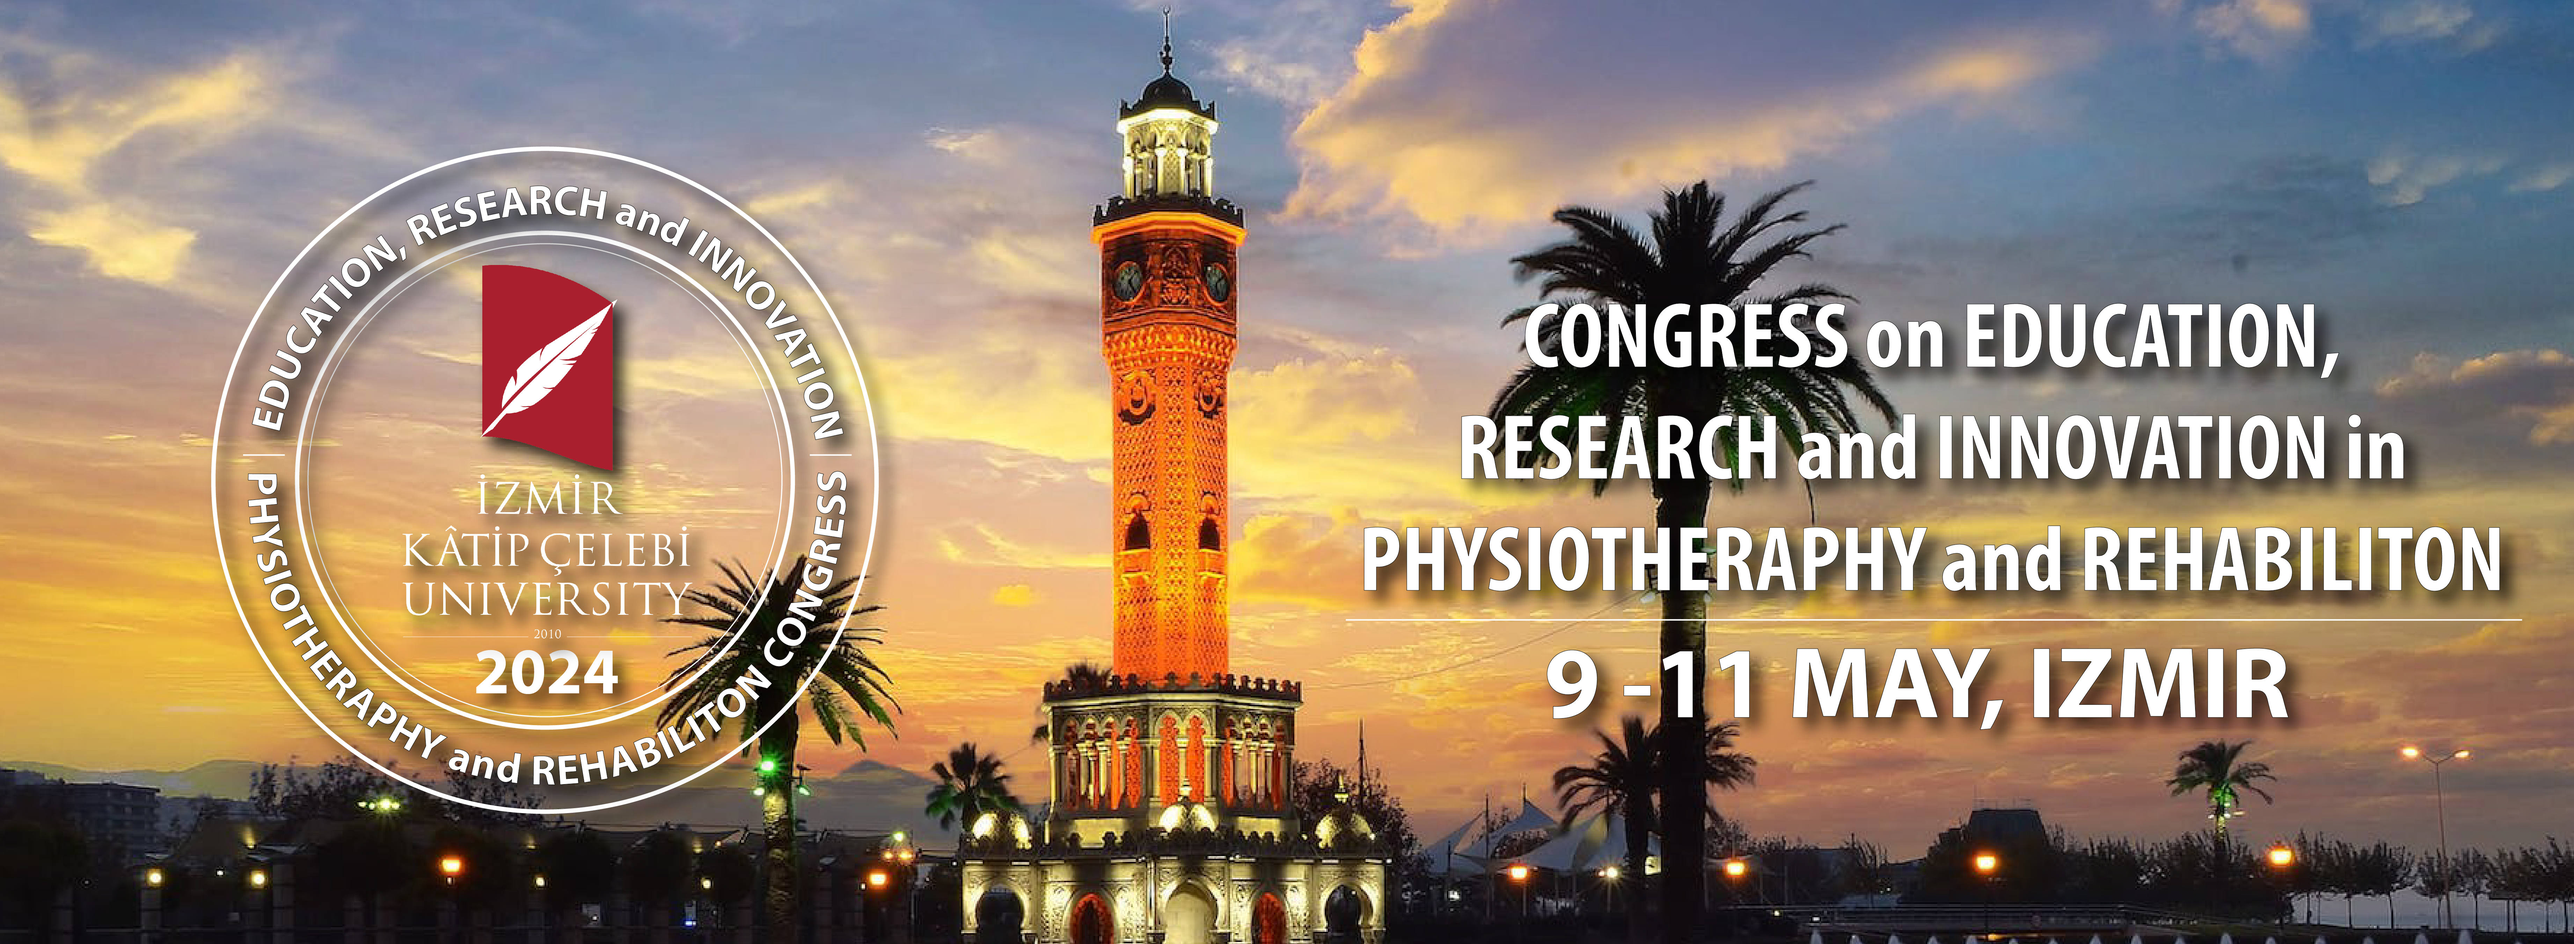
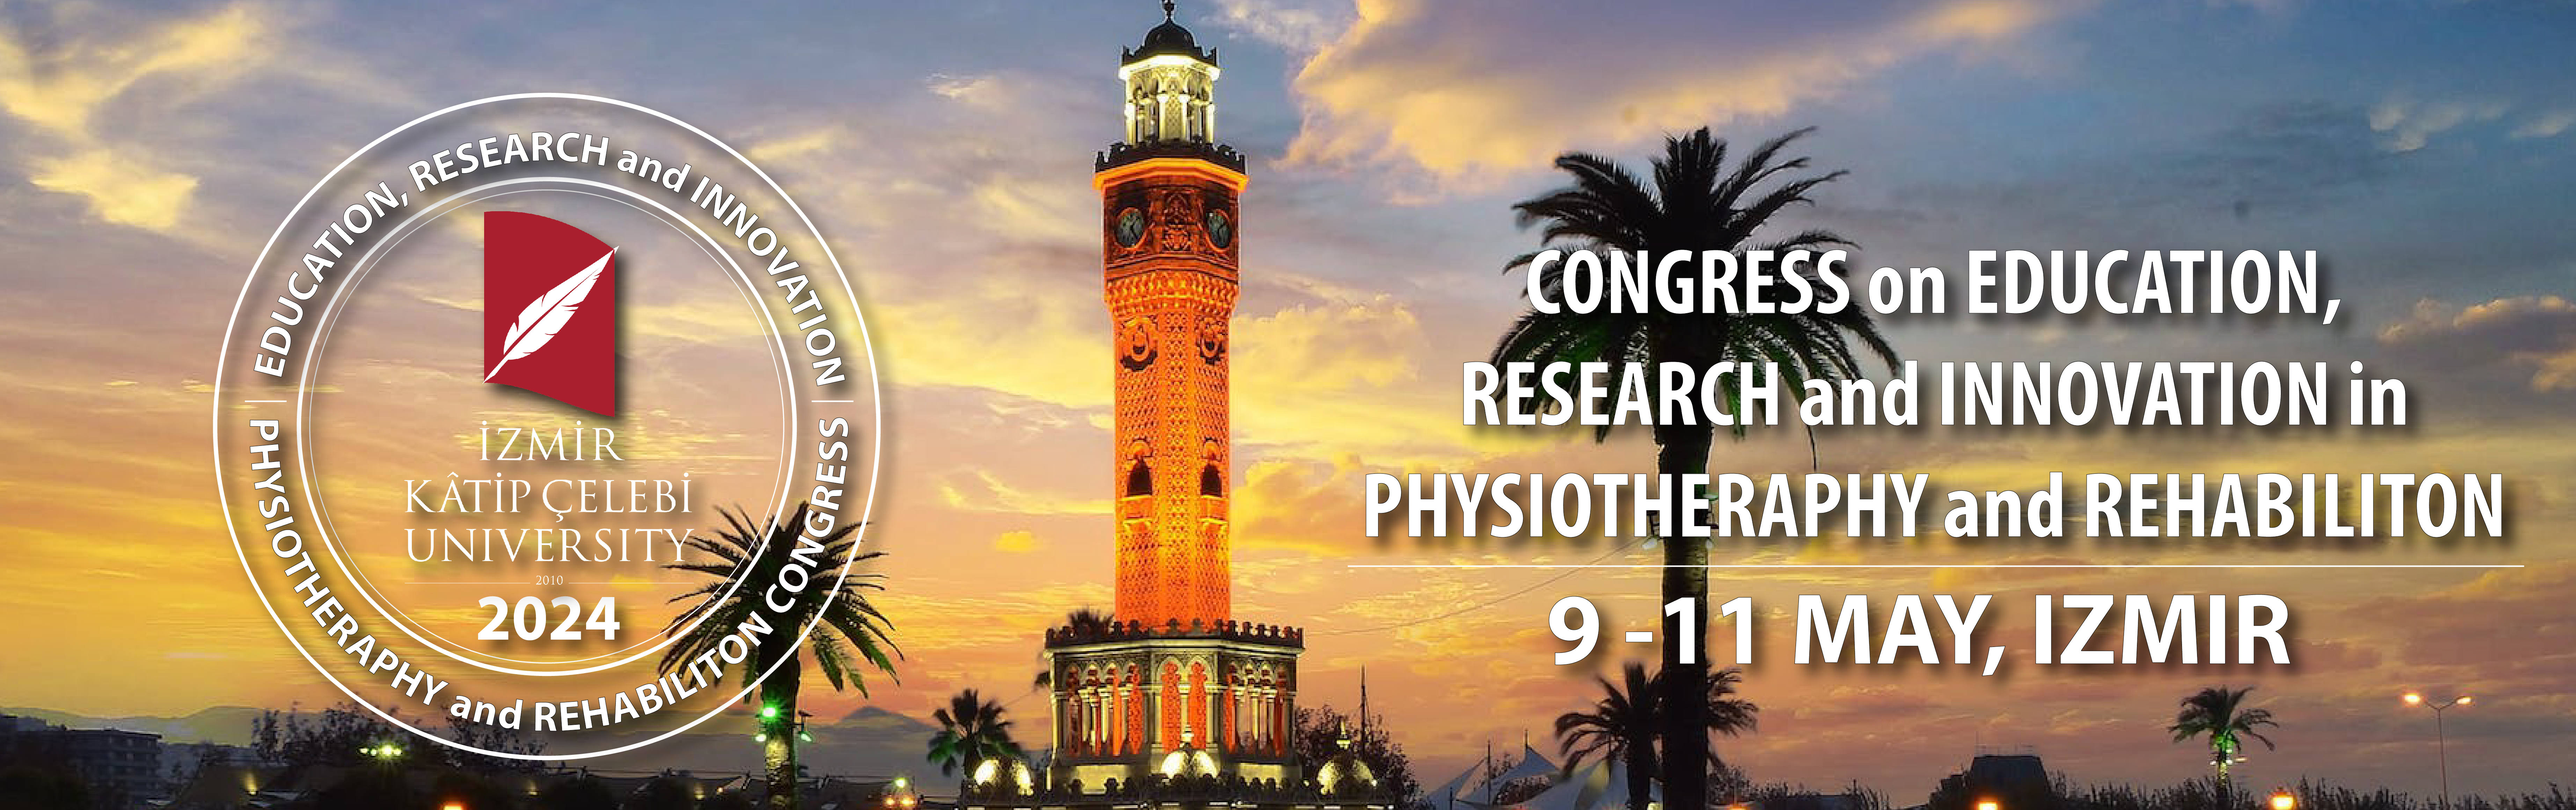
16

diff --git a/bildiri-gonderim_en.html b/bildiri-gonderim_en.html
@@ -3,8 +3,8 @@
 <head>
     <meta charset="UTF-8">
     <meta name="viewport" content="width=device-width, initial-scale=1.0">
-    <title>1. Fizyoterapi ve Rehabilitasyonda Eğitim, Araştırma ve İnovasyon Kongresi</title>
-    <link rel="icon" type="image/png" href="images/logo.jpg">
+    <title>IKCU FTR Kongre</title>
+    <link rel="icon" type="image/png" href="images/logoo.png">
     <link rel="stylesheet" href="styles.css">
     <!-- Add any other head elements here -->
 </head>
@@ -48,7 +48,7 @@
     </header>
 
     <main>
-        <img src="images/foto6.jpg" alt="aaaaaa">
+        <img src="images/F_EN_2.jpg" alt="aaaaaa">
         <section id="newpage">
             <h1>Abstract Submission</h1>
             <p style="text-align: center;"> 

diff --git a/bildiri-gonderim.html b/bildiri-gonderim.html
@@ -3,7 +3,7 @@
 <head>
     <meta charset="UTF-8">
     <meta name="viewport" content="width=device-width, initial-scale=1.0">
-    <title>1. Fizyoterapi ve Rehabilitasyonda Eğitim, Araştırma ve İnovasyon Kongresi</title>
+    <title>IKCU FTR Kongre</title>
     <link rel="icon" type="image/png" href="images/logo.jpg">
     <link rel="stylesheet" href="styles.css">
     <!-- Add any other head elements here -->
@@ -48,7 +48,7 @@
     </header>
 
     <main>
-        <img src="images/foto6.jpg" alt="aaaaaa">
+        <img src="images/F_TR_2.jpg" alt="aaaaaa">
         <section id="newpage">
             <h1>Bildiri Gönderimi</h1>
             <p style="text-align: center;"> 

diff --git a/styles.css b/styles.css
@@ -103,7 +103,7 @@ nav ul li a:hover {
 }
 
 main img {
-    max-width: 100%; /* Maximum width but can be smaller */
+    max-width: 80%; /* Maximum width but can be smaller */
     height: auto; /* Maintain the natural aspect ratio */
     display: block; /* For block level, which allows margin: auto to work */
     margin: 0 auto; /* Center the image if not full width */

diff --git a/efes-gezisi.html b/efes-gezisi.html
@@ -46,7 +46,7 @@
     </header>
 
     <main>
-        <img src="images/foto6.jpg" alt="aaaaaa">
+        <img src="images/F_TR_2.jpg" alt="aaaaaa">
         <section id="newpage">
             <h1>Efes Antik Kent Gezisi</h1>
             <p style="text-align: center;"> 

diff --git a/efes-gezisi_en.html b/efes-gezisi_en.html
@@ -46,7 +46,7 @@
     </header>
 
     <main>
-        <img src="images/foto6.jpg" alt="aaaaaa">
+        <img src="images/F_EN_2.jpg" alt="aaaaaa">
         <section id="newpage">
             <h1>FunRun Event</h1>
             <p style="text-align: center;"> 

diff --git a/gala.html b/gala.html
@@ -46,7 +46,7 @@
     </header>
 
     <main>
-        <img src="images/foto6.jpg" alt="aaaaaa">
+        <img src="images/F_TR_2.jpg" alt="aaaaaa">
         <section id="newpage">
             <h1>Gala Yemeği</h1>
             <p style="text-align: center;"> 

diff --git a/kayıt_en.html b/kayıt_en.html
@@ -46,7 +46,7 @@
     </header>
 
     <main>
-        <img src="images/foto6.jpg" alt="aaaaaa">
+        <img src="images/F_EN_2.jpg" alt="aaaaaa">
         <section id="newpage">
             <h1>Registration</h1>
             <p style="text-align: center;"> 

diff --git a/gala_en.html b/gala_en.html
@@ -46,7 +46,7 @@
     </header>
 
     <main>
-        <img src="images/foto6.jpg" alt="aaaaaa">
+        <img src="images/F_EN_2.jpg" alt="aaaaaa">
         <section id="newpage">
             <h1>Gala Dinner</h1>
             <p style="text-align: center;"> 

diff --git a/kurslar_en.html b/kurslar_en.html
@@ -46,7 +46,7 @@
     </header>
 
     <main>
-        <img src="images/foto6.jpg" alt="aaaaaa">
+        <img src="images/F_EN_2.jpg" alt="aaaaaa">
         <section id="newpage">
             <h1>Workshops</h1>
             <p style="text-align: center;"> 

diff --git a/program_en.html b/program_en.html
@@ -46,7 +46,7 @@
     </header>
 
     <main>
-        <img src="images/foto6.jpg" alt="aaaaaa">
+        <img src="images/F_EN_2.jpg" alt="aaaaaa">
         <section id="newpage">
             <h1>Programme</h1>
             <p style="text-align: center;">

diff --git a/kurslar.html b/kurslar.html
@@ -46,7 +46,7 @@
     </header>
 
     <main>
-        <img src="images/foto6.jpg" alt="aaaaaa">
+        <img src="images/F_TR_2.jpg" alt="aaaaaa">
         <section id="newpage">
             <h1>Kurslar</h1>
             <p style="text-align: center;"> 

diff --git a/program.html b/program.html
@@ -46,7 +46,7 @@
     </header>
 
     <main>
-        <img src="images/foto6.jpg" alt="aaaaaa">
+        <img src="images/F_TR_2.jpg" alt="aaaaaa">
         <section id="newpage">
             <h1>Program</h1>
             <p style="text-align: center;"> 
